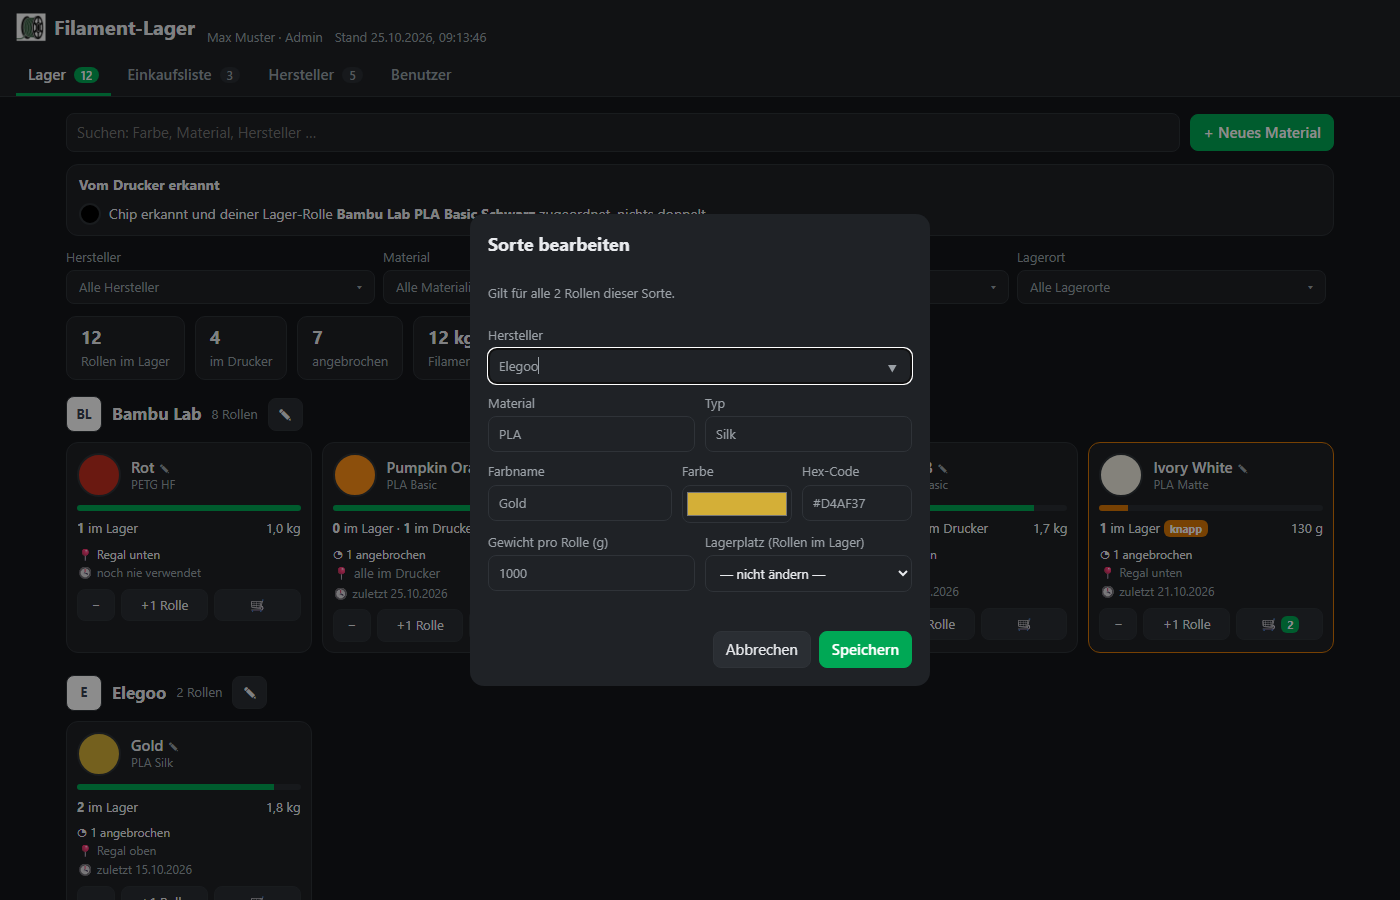
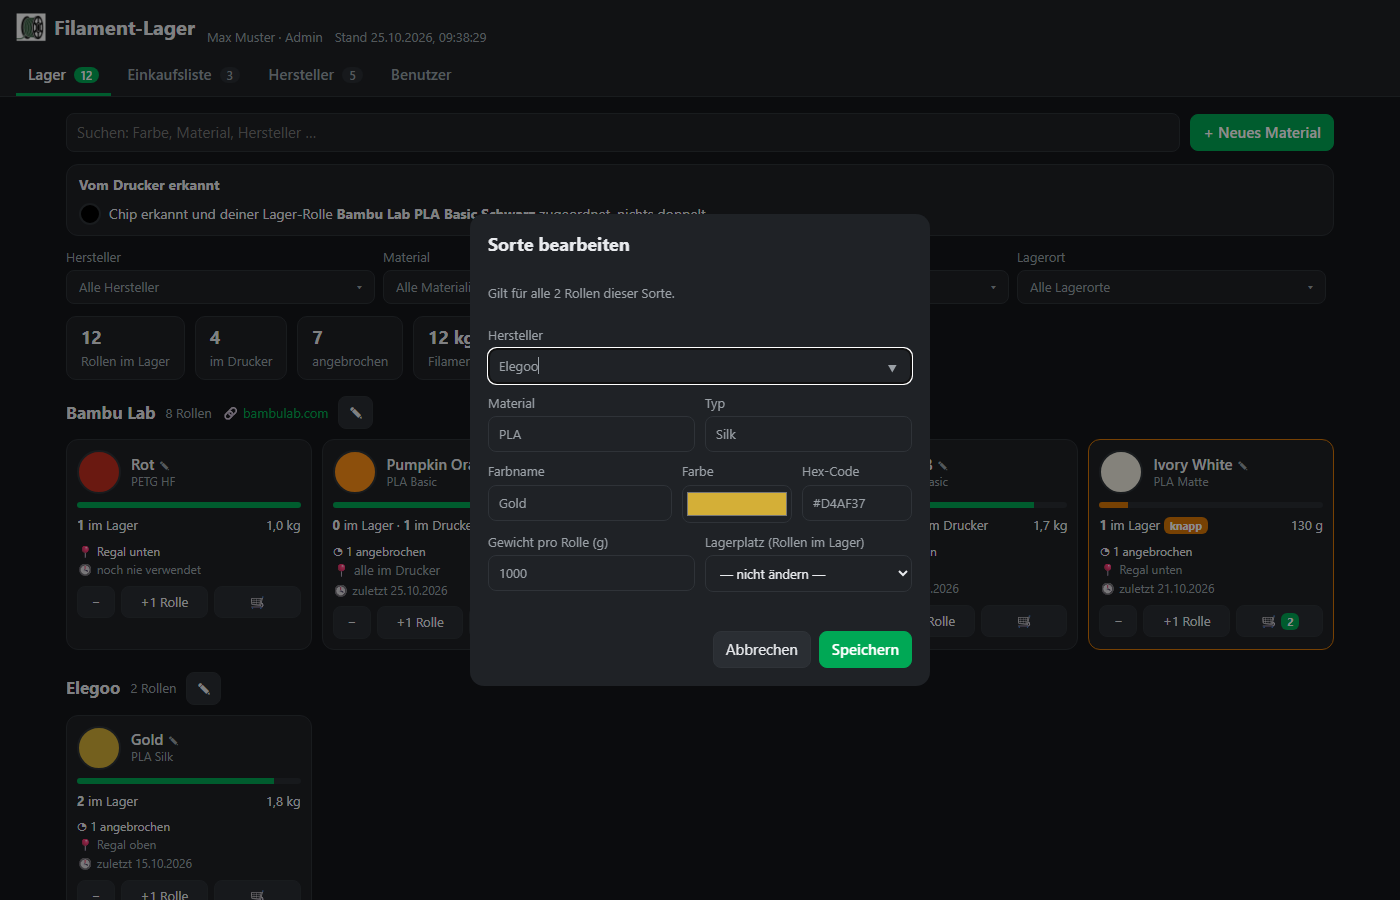
Add files via upload

diff --git a/filament_lager/www/app.js b/filament_lager/www/app.js
@@ -192,8 +192,21 @@ async function explainError() {
 // ---------- Darstellung ----------
 
 function logoHtml(brand, cls = "") {
-  const initials = esc((brand || "?").replace(/[^A-Za-z0-9 ]/g, "").split(/\s+/).map((w) => w[0]).join("").slice(0, 2).toUpperCase() || "?");
-  return `<span class="logo ${cls}" data-initials="${initials}"><img src="logo/${encodeURIComponent(brand)}?v=${state.logoVersion}" alt="" onerror="this.parentNode.textContent=this.parentNode.dataset.initials"></span>`;
+  // Nur hochgeladene Logos; ohne Logo bleibt nur der Name.
+  if (!(state.brands || {})[brandKey(brand)]?.logo) return "";
+  return `<span class="logo ${cls}"><img src="logo/${encodeURIComponent(brand)}?v=${state.logoVersion}" alt="" onerror="this.parentNode.remove()"></span>`;
+}
+
+function websiteOf(brand) {
+  const w = (state.brands || {})[brandKey(brand)]?.website || "";
+  return w ? (/^https?:\/\//i.test(w) ? w : "https://" + w) : "";
+}
+
+function websiteLink(brand) {
+  const url = websiteOf(brand);
+  if (!url) return "";
+  const label = url.replace(/^https?:\/\//i, "").replace(/\/$/, "");
+  return `<a class="siteLink" href="${esc(url)}" target="_blank" rel="noopener noreferrer" title="Webseite öffnen">🔗 ${esc(label)}</a>`;
 }
 
 function color(g) {
@@ -291,11 +304,13 @@ function renderBrands() {
   const list = allBrands();
   $("#brandCount").textContent = list.length || "";
   $("#brandGrid").innerHTML = list.length ? list.map((b) => `
-    <button class="brandCard" data-act="brand" data-brand="${esc(b.name)}">
+    <div class="brandCard">
       ${logoHtml(b.name, "big")}
       <span class="brandCardName">${esc(b.name)}</span>
-      <span class="muted">${b.rolls} ${b.rolls === 1 ? "Rolle" : "Rollen"}${b.website ? " · " + esc(b.website) : ""}</span>
-    </button>`).join("") : `<div class="emptyState">Noch keine Hersteller.</div>`;
+      <span class="muted">${b.rolls} ${b.rolls === 1 ? "Rolle" : "Rollen"}</span>
+      ${websiteLink(b.name) || `<span class="muted">keine Webseite</span>`}
+      <button class="need-edit" data-act="brand" data-brand="${esc(b.name)}">Bearbeiten</button>
+    </div>`).join("") : `<div class="emptyState">Noch keine Hersteller.</div>`;
 }
 
 const FILTER_UI = { brand: ["#fBrand", "Alle Hersteller"], material: ["#fMaterial", "Alle Materialien"], color: ["#fColor", "Alle Farben"], place: ["#fPlace", "Alle Lagerorte"] };
@@ -407,7 +422,8 @@ function renderStock() {
     const count = list.reduce((n, g) => n + g.spools.length, 0);
     return `<div class="brand">
       <div class="brandHead">${logoHtml(brand)}<h2>${esc(brand)}</h2><span class="muted">${count} ${count === 1 ? "Rolle" : "Rollen"}</span>
-        <button class="icon need-edit" data-act="brand" data-brand="${esc(brand)}" title="Logo ändern">✎</button></div>
+        ${websiteLink(brand)}
+        <button class="icon need-edit" data-act="brand" data-brand="${esc(brand)}" title="Hersteller bearbeiten">✎</button></div>
       <div class="grid">${list.map(tileHtml).join("")}</div></div>`;
   }).join("");
 }
@@ -886,7 +902,8 @@ $("#brandForm").addEventListener("submit", async (ev) => {
   }
   try {
     await api(`brands/${encodeURIComponent(currentBrand)}`, { method: "PUT", body: JSON.stringify({ website: form.website.value, name: currentBrand }) });
-    if (file) await api(`logo/${encodeURIComponent(currentBrand)}`, { method: "POST", body: file, headers: { "Content-Type": file.type || "image/png" } });
+    if (can(ADMIN) && form.removeLogo.checked && !file) await api(`logo/${encodeURIComponent(currentBrand)}`, { method: "DELETE" });
+    if (can(ADMIN) && file) await api(`logo/${encodeURIComponent(currentBrand)}`, { method: "POST", body: file, headers: { "Content-Type": file.type || "image/png" } });
     state.logoVersion = Date.now();
     $("#brandDialog").close();
     state.brands = await api("brands").catch(() => state.brands);

diff --git a/filament_lager/www/index.html b/filament_lager/www/index.html
@@ -106,8 +106,9 @@
     <h2 id="brandTitle">Hersteller <span id="brandName"></span></h2>
     <label id="brandNameField" class="hidden">Name des Herstellers<input name="brandname" autocomplete="off"></label>
     <div class="brandPreview"><span id="brandLogoPreview"></span></div>
-    <label>Webseite des Herstellers (Logo wird von dort geholt)<input name="website" placeholder="z. B. polymaker.com"></label>
-    <label>Oder eigenes Logo hochladen<input name="file" type="file" accept="image/*"></label>
+    <label>Webseite des Herstellers<input name="website" placeholder="z. B. polymaker.com" autocomplete="off"></label>
+    <label class="need-admin">Logo hochladen (PNG, JPG, WebP)<input name="file" type="file" accept="image/png,image/jpeg,image/webp,image/gif"></label>
+    <label class="need-admin removeLogoRow"><span><input name="removeLogo" type="checkbox"> Vorhandenes Logo entfernen</span></label>
     <div class="actions">
       <button value="cancel" formnovalidate>Abbrechen</button>
       <button value="ok" class="primary">Speichern</button>

diff --git a/filament_lager/www/style.css b/filament_lager/www/style.css
@@ -147,7 +147,12 @@ input[type=color] { height: 38px; padding: 2px; }
   background: var(--card); border: 1px solid var(--border); border-radius: 12px; padding: 14px 10px;
   display: flex; flex-direction: column; align-items: center; gap: 6px; text-align: center;
 }
-.brandCardName { font-weight: 600; font-size: 15px; }
+.brandCardName { font-weight: 600; font-size: 17px; }
+.brandCard button { margin-top: 4px; font-size: 13px; padding: 5px 12px; }
+.siteLink { color: var(--accent); text-decoration: none; font-size: 13px; white-space: nowrap; overflow: hidden; text-overflow: ellipsis; max-width: 100%; }
+.siteLink:hover { text-decoration: underline; }
+.removeLogoRow span { display: flex; align-items: center; gap: 6px; color: var(--text); }
+.removeLogoRow input { width: auto; }
 .confirmLine { display: flex; align-items: center; gap: 10px; font-size: 15px; }
 .confirmLine .swatch { width: 32px; height: 32px; }
 .confirmNote { font-size: 13px; color: var(--muted); margin: 8px 0 0; }

diff --git a/filament_lager/server.py b/filament_lager/server.py
@@ -1,7 +1,7 @@
 """Filament-Lager: kleine Oberfläche für das Bambuddy-Inventar.
 
 Liefert die Web-Oberfläche aus, reicht Inventar-Aufrufe mit dem API-Schlüssel
-an Bambuddy weiter und verwaltet Hersteller-Logos.
+an Bambuddy weiter und verwaltet Hersteller (Webseite, hochgeladenes Logo).
 """
 
 import json
@@ -22,52 +22,7 @@ WWW_DIR = os.path.join(os.path.dirname(os.path.abspath(__file__)), "www")
 PORT = 8099
 DEFAULT_BAMBUDDY = "http://homeassistant.local:8000"
 INGRESS_PEER = "172.30.32.2"
-LOGO_RETRY_SECONDS = 24 * 3600
 MAX_UPLOAD = 2 * 1024 * 1024
-
-# Bekannte Hersteller und ihre Webseiten, aus denen das Logo geholt wird.
-KNOWN_DOMAINS = {
-    "bambu": "bambulab.com",
-    "bambulab": "bambulab.com",
-    "polymaker": "polymaker.com",
-    "polyterra": "polymaker.com",
-    "polylite": "polymaker.com",
-    "esun": "esun3d.com",
-    "sunlu": "sunlu.com",
-    "elegoo": "elegoo.com",
-    "prusament": "prusa3d.com",
-    "prusa": "prusa3d.com",
-    "jayo": "jayo3d.com",
-    "eryone": "eryone3d.com",
-    "geeetech": "geeetech.com",
-    "overture": "overture3d.com",
-    "anycubic": "anycubic.com",
-    "creality": "creality.com",
-    "kingroon": "kingroon.com",
-    "extrudr": "extrudr.com",
-    "dasfilament": "dasfilament.de",
-    "fillamentum": "fillamentum.com",
-    "colorfabb": "colorfabb.com",
-    "formfutura": "formfutura.com",
-    "3djake": "3djake.de",
-    "azurefilm": "azurefilm.com",
-    "spectrum": "spectrumfilaments.com",
-    "devildesign": "devildesign.com",
-    "qidi": "qidi3d.com",
-    "ziro": "ziro3d.com",
-    "amolen": "amolen.com",
-    "tinmorry": "tinmorry.com",
-    "r3d": "r3dfilament.com",
-    "flashforge": "flashforge.com",
-    "snapmaker": "snapmaker.com",
-    "inland": "microcenter.com",
-    "hatchbox": "hatchbox3d.com",
-    "atomic": "atomicfilament.com",
-    "3dxtech": "3dxtech.com",
-    "rosa3d": "rosa3d.pl",
-    "add:north": "addnorth.com",
-    "addnorth": "addnorth.com",
-}
 
 
 def load_options():
@@ -95,29 +50,6 @@ def save_brands(brands):
     with open(tmp, "w", encoding="utf-8") as f:
         json.dump(brands, f, ensure_ascii=False, indent=1)
     os.replace(tmp, BRANDS_FILE)
-
-
-def brand_domain(brand):
-    key = brand_key(brand)
-    website = load_brands().get(key, {}).get("website")
-    if website:
-        return re.sub(r"^https?://", "", website).split("/")[0]
-    if key in KNOWN_DOMAINS:
-        return KNOWN_DOMAINS[key]
-    for prefix, domain in KNOWN_DOMAINS.items():
-        if key.startswith(prefix):
-            return domain
-    return None
-
-
-def fetch_image(url):
-    req = urllib.request.Request(url, headers={"User-Agent": "Mozilla/5.0 Filament-Lager"})
-    with urllib.request.urlopen(req, timeout=8) as resp:
-        ctype = resp.headers.get("Content-Type", "").split(";")[0].strip()
-        body = resp.read(MAX_UPLOAD + 1)
-    if not ctype.startswith("image/") or len(body) < 100 or len(body) > MAX_UPLOAD:
-        return None
-    return ctype, body
 
 
 def logo_paths(key):
@@ -149,38 +81,11 @@ def write_logo(key, ctype, body, source):
         json.dump({"type": ctype, "source": source, "time": time.time()}, f)
 
 
-def mark_missing(key):
-    _, meta = logo_paths(key)
-    with open(meta, "w", encoding="utf-8") as f:
-        json.dump({"missing": True, "time": time.time()}, f)
-
-
 def get_logo(brand):
+    # Nur selbst hochgeladene Logos; es wird nichts aus dem Internet geholt.
     key = brand_key(brand)
-    if not key:
-        return None
-    cached = read_logo(key)
-    if cached and not cached.get("missing"):
-        return cached
-    if cached and time.time() - cached.get("time", 0) < LOGO_RETRY_SECONDS:
-        return None
-    domain = brand_domain(brand)
-    if not domain:
-        mark_missing(key)
-        return None
-    for url in (
-        f"https://{domain}/apple-touch-icon.png",
-        f"https://www.google.com/s2/favicons?domain={domain}&sz=128",
-    ):
-        try:
-            result = fetch_image(url)
-        except (urllib.error.URLError, OSError, ValueError):
-            result = None
-        if result:
-            write_logo(key, result[0], result[1], url)
-            return {"type": result[0], "body": result[1]}
-    mark_missing(key)
-    return None
+    info = read_logo(key) if key else None
+    return info if info and info.get("source") == "upload" and "body" in info else None
 
 
 # ---------- Benutzer und Rechte ----------
@@ -245,6 +150,8 @@ def required_level(method, path):
     if path == "/api/me" or (method == "GET" and not path.startswith(("/api/", "/reconcile", "/brands", "/logo/", "/users"))):
         return NONE
     if path.startswith("/users"):
+        return ADMIN
+    if path.startswith("/logo/") and method != "GET":
         return ADMIN
     if method == "GET":
         return VIEW
@@ -311,7 +218,11 @@ class Handler(BaseHTTPRequestHandler):
             if path == "/reconcile":
                 return self.reconcile()
             if path == "/brands":
-                return self.send(200, load_brands())
+                # Mit Hinweis, ob ein Logo hochgeladen ist, damit die Seite nicht ins Leere fragt.
+                brands = load_brands()
+                for key, entry in brands.items():
+                    entry["logo"] = get_logo(key) is not None
+                return self.send(200, brands)
             if path.startswith("/brands/"):
                 return self.brand_settings(unquote(path[len("/brands/"):]))
             if path.startswith("/logo/"):
@@ -432,12 +343,6 @@ class Handler(BaseHTTPRequestHandler):
         entry["name"] = (data.get("name") or entry.get("name") or brand).strip()
         brands[key] = entry
         save_brands(brands)
-        # Logo beim nächsten Abruf neu holen, falls kein eigenes hochgeladen ist.
-        cached = read_logo(key)
-        if not cached or cached.get("missing") or cached.get("source") != "upload":
-            for p in logo_paths(key):
-                if os.path.exists(p):
-                    os.remove(p)
         self.send(200, entry)
 
     def logo(self, brand):
@@ -451,8 +356,9 @@ class Handler(BaseHTTPRequestHandler):
             return self.send(200, info["body"], info["type"], {"Cache-Control": "max-age=3600"})
         if self.command in ("POST", "PUT"):
             ctype = (self.headers.get("Content-Type") or "").split(";")[0]
-            if not ctype.startswith("image/"):
-                return self.send(400, {"detail": "Bitte ein Bild hochladen"})
+            # Kein SVG: das könnte Skripte enthalten und liefe im Kontext der App.
+            if ctype not in ("image/png", "image/jpeg", "image/webp", "image/gif"):
+                return self.send(400, {"detail": "Bitte ein PNG-, JPG-, WebP- oder GIF-Bild hochladen"})
             write_logo(key, ctype, self.read_body(), "upload")
             return self.send(200, {"ok": True})
         if self.command == "DELETE":

diff --git a/README.md b/README.md
@@ -21,7 +21,7 @@
 
 Bambuddy zählt den Filamentverbrauch deiner Bambu-Lab-Drucker automatisch mit, die Lagerverwaltung dort ist aber eher technisch. Filament-Lager legt eine einfache Oberfläche darüber und speichert alles direkt in Bambuddy.
 
-- **Übersicht auf einen Blick**: jede Sorte als Farbkachel, gruppiert nach Hersteller mit Logo. Du siehst Rollen im Lager und im Drucker, angebrochene Rollen, Restgewicht, Lagerplatz und wann das Material zuletzt verwendet wurde. Was knapp wird, ist orange markiert, was leer ist, rot.
+- **Übersicht auf einen Blick**: jede Sorte als Farbkachel, gruppiert nach Hersteller (mit eigenem Logo und Link zur Webseite). Du siehst Rollen im Lager und im Drucker, angebrochene Rollen, Restgewicht, Lagerplatz und wann das Material zuletzt verwendet wurde. Was knapp wird, ist orange markiert, was leer ist, rot.
 - **Schnell erfassen**: „+1 Rolle“ bei jeder Sorte oder „Neues Material“ mit Hersteller, Material, Typ, Farbe (auch als Hex-Code), Gewicht, Anzahl und Lagerplatz.
 - **Keine Doppelten**: Schreibweisen werden vereinheitlicht („bambu lab“ wird „Bambu Lab“), und gibt es eine Sorte schon, schlägt die App vor, die Rollen dort dazuzubuchen.
 - **Einkaufsliste**: Warenkorb-Knopf an jeder Sorte, Status „zu kaufen“, „bestellt“, „eingetroffen“. Beim Eintreffen werden die Rollen direkt ins Lager gebucht. Neben jedem Eintrag steht der aktuelle Lagerbestand.
@@ -37,6 +37,10 @@ Bambuddy zählt den Filamentverbrauch deiner Bambu-Lab-Drucker automatisch mit, 
 | Einkaufsliste | Hersteller |
 |---|---|
 | ![Einkaufsliste](images/einkaufsliste.png) | ![Hersteller](images/hersteller.png) |
+
+| Hersteller bearbeiten (Webseite, Logo) | |
+|---|---|
+| ![Hersteller bearbeiten](images/hersteller-bearbeiten.png) | |
 
 | Neues Material mit Hinweis auf vorhandene Sorte | Sorte bearbeiten |
 |---|---|
@@ -78,17 +82,24 @@ Die Rechte stellst du unter Einstellungen → Apps → Filament-Lager → **Konf
 | `kein` | nichts, sieht nur „Kein Zugriff“ |
 | `ansehen` | Lager, Einkaufsliste und Hersteller ansehen |
 | `erfassen` | zusätzlich Rollen einbuchen und die Einkaufsliste pflegen |
-| `bearbeiten` | zusätzlich Sorten ändern, Rollen ausbuchen, Hersteller und Logos pflegen |
-| `admin` | zusätzlich den Reiter „Benutzer“ sehen |
+| `bearbeiten` | zusätzlich Sorten ändern, Rollen ausbuchen, Hersteller und Webseiten pflegen |
+| `admin` | zusätzlich Logos hochladen und den Reiter „Benutzer“ sehen |
 
 - **Benutzer und Rechte**: ein Eintrag pro Person, mit dem Home-Assistant-**Benutzernamen** (nicht dem Anzeigenamen) und dem Recht.
 - **Standard-Recht**: gilt für alle, die nicht eingetragen sind. Voreingestellt ist `ansehen`.
 - Den Benutzernamen findest du in Home Assistant unter Einstellungen → Personen → Benutzer, oder in der App im Reiter „Benutzer“, sobald die Person die App einmal geöffnet hat.
 - Änderungen gelten sofort, ohne Neustart. Die App prüft die Rechte auch auf dem Server, nicht nur in der Anzeige.
 
-## Hersteller-Logos
+## Hersteller, Webseiten und Logos
 
-Für bekannte Hersteller (Bambu Lab, Polymaker, eSun, Sunlu, Elegoo, Prusament und viele mehr) holt die App das Logo automatisch von deren Webseite. Für alle anderen im Reiter **Hersteller** auf den Hersteller tippen und die Webseite eintragen oder ein eigenes Bild hochladen.
+Im Reiter **Hersteller** siehst du alle Hersteller mit Anzahl Rollen und Webseite.
+
+- **Webseite**: mit dem Recht `bearbeiten` trägst du sie unter „Bearbeiten“ ein. Sie erscheint dann als Link im Lager und auf der Hersteller-Seite, so findest du den Shop schnell.
+- **Logo**: Admins laden es dort als PNG, JPG, WebP oder GIF hoch. Ohne Logo zeigt die App einfach den Namen. Logos werden nie automatisch aus dem Internet geholt.
+
+## Sichtbarkeit in der Seitenleiste
+
+Home Assistant kennt für App-Einträge in der Seitenleiste nur „alle Benutzer“ oder „nur Admins“. Filament-Lager ist für alle Benutzer freigegeben; wer das Recht `kein` hat, sieht beim Öffnen nur „Kein Zugriff“. Jeder Benutzer kann den Eintrag zusätzlich in seinem Profil unter **Seitenleiste bearbeiten** ausblenden.
 
 ## RFID-Rollen richtig erfassen
 
@@ -116,7 +127,7 @@ Nur beim RFID-Abgleich: Die Lager-Rolle übernimmt den AMS-Platz der doppelten C
 
 ## Datenschutz
 
-Alle Daten bleiben bei dir: Rollen, Einkaufsliste und Lagerplätze liegen in Bambuddy, Logos und Einstellungen in der App auf deinem Home-Assistant-Gerät. Nach außen geht nur der Abruf von Hersteller-Logos von den jeweiligen Webseiten.
+Alle Daten bleiben bei dir: Rollen, Einkaufsliste und Lagerplätze liegen in Bambuddy, Logos und Einstellungen in der App auf deinem Home-Assistant-Gerät. Die App selbst baut keine Verbindung ins Internet auf.
 
 ## Lizenz
 

diff --git a/filament_lager/DOCS.md b/filament_lager/DOCS.md
@@ -18,8 +18,8 @@
 | `kein` | nichts |
 | `ansehen` | alles ansehen |
 | `erfassen` | Rollen einbuchen, Einkaufsliste pflegen |
-| `bearbeiten` | zusätzlich Sorten ändern, ausbuchen, Hersteller pflegen |
-| `admin` | zusätzlich Übersicht „Benutzer“ |
+| `bearbeiten` | zusätzlich Sorten ändern, ausbuchen, Hersteller-Webseiten pflegen |
+| `admin` | zusätzlich Logos hochladen und Übersicht „Benutzer“ |
 
 Wer nicht unter **Benutzer und Rechte** steht, bekommt das **Standard-Recht**. Änderungen gelten sofort.
 

diff --git a/filament_lager/CHANGELOG.md b/filament_lager/CHANGELOG.md
@@ -1,5 +1,11 @@
 # Änderungen
 
+## 1.2.0
+
+- Logos werden nicht mehr automatisch aus dem Internet geholt; nur Admins laden sie hoch (PNG, JPG, WebP, GIF)
+- Ohne Logo wird nur der Herstellername angezeigt
+- Webseite pro Hersteller als Link im Lager und auf der Hersteller-Seite
+
 ## 1.1.0
 
 - Benutzerrechte in der App-Konfiguration (kein, ansehen, erfassen, bearbeiten, admin)
